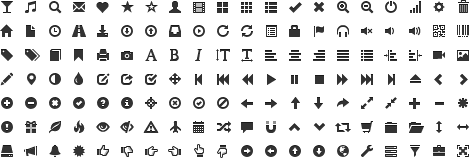
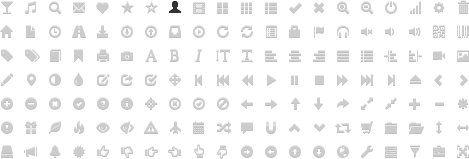
Both Weapons and Armor can now be equiped, fixed some glyphicon colors, also now displaying gold and exp in the nav bar

diff --git a/templates/user/home.html b/templates/user/home.html
@@ -55,9 +55,10 @@
 
 	<hr>
 	<div class="span12">
-		<h2>Owned Weapons</h2>
+		<h2>Weapon Rack</h2>
 		<br>
 		<div class="span10 well">
+			{% if len(user.get_all_weapons()) > 0 %}
 			<table class="table table-condensed">
 				<thead>
 					<tr>
@@ -94,22 +95,24 @@
 			    <!-- End For -->
 			  </tbody>
 			</table>
+			{% else %}
+			<p> You don't have any weapons! </p>
+			{% end %}
 		</div>
 	</div>
 
 	<hr>
 	<div class="span12">
-		<h2>Owned Armor</h2>
+		<h2>Armory</h2>
 		<br>
 		<div class="span10 well">
+			{% if len(user.get_all_armor()) > 0 %}
 			<table class="table table-condensed">
 				<thead>
 					<tr>
 				    	<th>Name</th>
 				    	<th>Required Level</th>
-				    	<th>Damage</th>
 				    	<th>Rating</th>
-				    	<th>Advanced</th>
 				    	<th>Classification</th>
 				    	<th><!-- Empty header for the button --></th>
 					</tr>
@@ -117,27 +120,28 @@
 
 				<tbody>
 				<!-- For Every Weapon the player owns -->
+				{% for armor in user.get_all_armor() %}
 				<tr>
-			    	<td>The Vaginator</td>
-			    	<td>69</td>
-			    	<td>1337</td>
-			    	<td>12</td>
-			    	<td>True</td>
-			    	<td>Fist Weapon</td>
-			    	<td><button type="submit" class="btn" style="">Equip</button></td>
+			    	<td>{{ armor.name }}</td>
+			    	<td>{{ armor.required_level }}</td>
+			    	<td>{{ weapon.rating }}</td>
+			    	<td>{{ weapon.classification }}</td>
+			    	<td>
+			    		<!-- This is kinda growdy, sorry -->
+			    		<form action="/user/equiparmor" method="post" >
+			    			{% raw xsrf_form_html() %}
+			    			<input type="hidden" name="armor_id" value="{{ armor.id }}">
+			    			<input type="submit" class="btn" value="Equip"></input>
+			    		</form>
+			    	</td>
 			    </tr>
-			    <tr>
-			    	<td>The Vaginator</td>
-			    	<td>69</td>
-			    	<td>1337</td>
-			    	<td>12</td>
-			    	<td>True</td>
-			    	<td>Fist Weapon</td>
-			    	<td><button type="submit" class="btn" style="">Equip</button></td>
-			    </tr>
+			    {% end %}
 			    <!-- End For -->
 			  </tbody>
 			</table>
+			{% else %}
+			<p>You Don't have any Armor!</p>
+			{% end %}
 		</div>
 	</div>
 	<hr>

diff --git a/templates/menu/user.html b/templates/menu/user.html
@@ -24,12 +24,14 @@
           <li><a href="/quest">Quest</a></li>
           <li><a href="/pvp">PvP</a></li>
           <li><a href="/highscore">Highscore</a></li>
+          <li><a href="#"><i class="icon-remove-circle"></i> Gold [{{ user.gold }}]</a></li>
+          <li><a href="#"><i class="icon-asterisk"></i> Exp [{{ user.gold }}]</a></li>
         </ul>
       </div><!--/.nav-collapse -->
       <div class="btn-group pull-right">
         <a class="btn dropdown-toggle" data-toggle="dropdown" href="#">
           <i class="icon-user"></i> 
-          {{ name }}
+          {{ user.name }}
           <span class="caret"></span>
         </a>
         <ul class="dropdown-menu">

diff --git a/handlers/UserHandlers.py b/handlers/UserHandlers.py
@@ -27,6 +27,7 @@ from uuid import uuid4
 from base64 import b64encode, b64decode
 from models import User
 from models.Weapon import Weapon
+from models.Armor import Armor
 from mimetypes import guess_type
 from libs.Form import Form
 from libs.Session import SessionManager
@@ -72,16 +73,36 @@ class EquipWeaponHandler(UserBaseHandler):
                     self.dbsession.add(new_weapon)
                     self.dbsession.add(old_weapon)
                     self.dbsession.flush()
-        self.render('user/home.html', user=user)
+        self.redirect('/user')
 
 class EquipArmorHandler(UserBaseHandler):
     ''' This is the handler that allows to equiping of armors from the profile '''
+
+    def initialize(self, dbsession):
+        self.dbsession = dbsession
+        self.session_manager = SessionManager.Instance()
+        self.session = self.session_manager.get_session(
+            self.get_secure_cookie('auth'), self.request.remote_ip)
+        self.form = Form(
+            armor_id="You Must Select an Armor"
+        )
 
     @authenticated
     def post(self, *args, **kwargs):
         ''' Display the default user page '''
         user = self.get_current_user()
-        self.render('user/home.html', user=user)
+        if self.form.validate(self.request.arguments):
+            if user != None and self.get_argument('armor_id').isdigit():
+                new_armor = Armor.by_id(self.get_argument('armor_id'))
+                # Make sure that we have the weapon they are attemping to equip
+                if new_armor in user.get_all_armor():
+                    old_armor = user.equiped_armor
+                    old_armor.equiped = False
+                    new_armor.equiped = True
+                    self.dbsession.add(new_armor)
+                    self.dbsession.add(old_armor)
+                    self.dbsession.flush()
+        self.redirect('/user')
 
 class SettingsHandler(RequestHandler):
     ''' Does NOT extend BaseUserHandler '''

diff --git a/handlers/PublicHandlers.py b/handlers/PublicHandlers.py
@@ -131,11 +131,10 @@ class RegistrationHandler(RequestHandler):
         user.password = password
         self.dbsession.add(user)
         self.dbsession.flush()
-
         #Add start Weapon and Armor
         self.setup_new_weapon(user)
-        self.setup_new_weapon2(user)
         self.setup_new_armor(user)
+
     def setup_new_weapon(self, user):
         all_weapons = Items.get_weapons()
         short_sword = all_weapons['Short Sword']
@@ -151,25 +150,6 @@ class RegistrationHandler(RequestHandler):
             avatar = short_sword['avatar'],
             classification = short_sword['classification'],
             equiped = True,
-        )
-        self.dbsession.add(weapon)
-        self.dbsession.flush()
-
-    def setup_new_weapon2(self, user):
-        all_weapons = Items.get_weapons()
-        short_sword = all_weapons['Short Sword']
-        weapon = Weapon(
-            user_id = user.id,
-            name = "Another",
-            description = "Things",
-            required_level = 99,
-            cost = short_sword['cost'],
-            rating = short_sword['rating'],
-            damage = short_sword['damage'],
-            advanced = short_sword['advanced'],
-            avatar = 'http://files.sharenator.com/hurr_durr_derp_face_leaf_blower_ur_doing_it_wrong-s500x356-128400.jpg',
-            classification = short_sword['classification'],
-            equiped = False,
         )
         self.dbsession.add(weapon)
         self.dbsession.flush()
@@ -190,7 +170,6 @@ class RegistrationHandler(RequestHandler):
         )
         self.dbsession.add(armor)
         self.dbsession.flush()
-
 
 class AboutHandler(RequestHandler):
 

diff --git a/modules/Menu.py b/modules/Menu.py
@@ -20,7 +20,7 @@ Created on Mar 14, 2012
 
 from libs.Session import SessionManager
 from tornado.web import UIModule
-
+from models.User import User
 
 class Menu(UIModule):
 
@@ -30,7 +30,9 @@ class Menu(UIModule):
             self.handler.get_secure_cookie('auth'), self.request.remote_ip)
         if session != None:
             if session.data['menu'] == 'user':
-                return self.render_string('menu/user.html', name=session.data['name'])
+                user = User.by_name(session.data['name'])
+                if user != None:
+                    return self.render_string('menu/user.html', user=user)
             elif session.data['menu'] == 'admin':
                 return self.render_string('menu/admin.html', uri=self.handler.request.uri)
         return self.render_string('menu/public.html', uri=self.handler.request.uri)

diff --git a/models/Armor.py b/models/Armor.py
@@ -24,7 +24,7 @@ from sqlalchemy.orm import synonym, relationship, backref
 from sqlalchemy.types import Unicode, Integer, Boolean
 from models.BaseGameObject import BaseObject
 from string import ascii_letters, digits
-
+from models import dbsession
 
 class Armor(BaseObject):
 
@@ -47,5 +47,15 @@ class Armor(BaseObject):
     def filter_string(cls, string, extra_chars=''):
         char_white_list = ascii_letters + digits + extra_chars
         return filter(lambda char: char in char_white_list, string)
+
+    @classmethod
+    def get_all(cls):
+        ''' Return all weapon objects '''
+        return dbsession.query(cls).all()
+
+    @classmethod
+    def by_id(cls, uid):
+        ''' Return the user object whose user id is uid '''
+        return dbsession.query(cls).filter_by(id=unicode(uid)).first()
 
     
